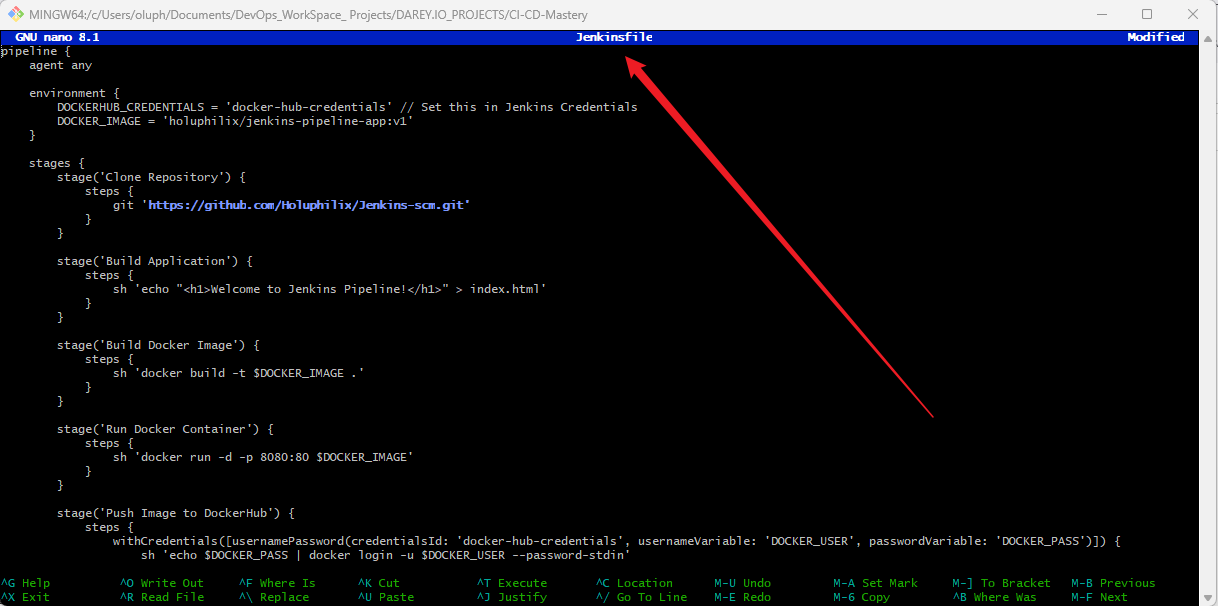
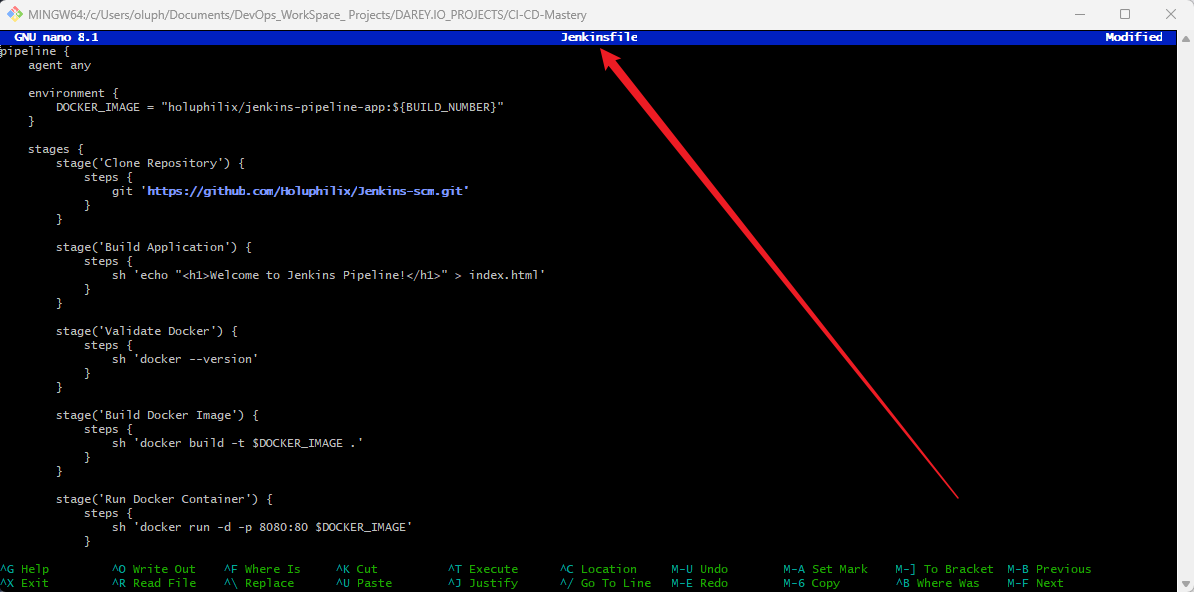
Updated Readme.md for Docker image creation and push

diff --git a/README.md b/README.md
@@ -282,7 +282,26 @@ pipeline {
 #### **Objective**
 Automate the creation of a Docker image for the web application and push it to Docker Hub using Jenkins.
 
-#### **Step 1: Update Jenkinsfile in GitHub Repository**
+#### **Step 1: Create a Repository on DockerHub:**
+
+1. Log in to DockerHub:
+- Visit https://hub.docker.com/ and log in to your account.
+
+2. Create a New Repository:
+- Click on Create Repository.
+
+3. Fill in the Details:
+- Repository Name: jenkins-pipeline-app
+- Visibility: Choose Public or Private (Public is free and easier to access).
+- Leave other options as default.
+
+4. Save:
+- Click Create to save the repository.
+
+**Screenshot:** Dockerhub Repository Name 
+![Dockerhub Repository Name](./Images/30.Dockerhub_repos_name.png)
+
+#### **Step 2: Update Jenkinsfile in GitHub Repository**
 Modify the `Jenkinsfile` in your repository to include Docker image creation and pushing to Docker Hub.
 
 #### **Updated Jenkinsfile Script for WebApp-Deployment-Pipeline:**
@@ -292,8 +311,7 @@ pipeline {
     agent any
 
     environment {
-        DOCKERHUB_CREDENTIALS = 'docker-hub-credentials' // Set this in Jenkins Credentials
-        DOCKER_IMAGE = 'holuphilix/jenkins-pipeline-app:v1'
+        DOCKER_IMAGE = "holuphilix/jenkins-pipeline-app:${BUILD_NUMBER}"
     }
 
     stages {
@@ -306,6 +324,12 @@ pipeline {
         stage('Build Application') {
             steps {
                 sh 'echo "<h1>Welcome to Jenkins Pipeline!</h1>" > index.html'
+            }
+        }
+
+        stage('Validate Docker') {
+            steps {
+                sh 'docker --version'
             }
         }
 
@@ -323,10 +347,7 @@ pipeline {
 
         stage('Push Image to DockerHub') {
             steps {
-                withCredentials([usernamePassword(credentialsId: 'docker-hub-credentials', usernameVariable: 'DOCKER_USER', passwordVariable: 'DOCKER_PASS')]) {
-                    sh 'echo $DOCKER_PASS | docker login -u $DOCKER_USER --password-stdin'
-                    sh 'docker push $DOCKER_IMAGE'
-                }
+                sh 'docker push $DOCKER_IMAGE'
             }
         }
     }
@@ -338,6 +359,9 @@ pipeline {
         failure {
             echo 'Pipeline failed. Check the logs.'
         }
+        always {
+            sh 'docker system prune -f'
+        }
     }
 }
 ```
@@ -345,7 +369,7 @@ pipeline {
 **Screenshot:** Jenkins Pipeline Execution
 ![Jenkins Pipeline Execution](./Images/22.Jenkinsfile_script.png)
 
-#### **Dockerfile Script for WebApp-Deployment-Pipeline:**
+#### **Step 3: Create Dockerfile Script for WebApp-Deployment-Pipeline:**
 
 ```groovy
 # Use an official Nginx image as the base image
@@ -361,7 +385,7 @@ EXPOSE 80
 **Screenshot:** Dockerfile Execution
 ![Dockerfile Execution](./Images/23.Dockerfile_Script.png)
 
-#### **.gitignore Script for WebApp-Deployment-Pipeline:**
+#### **Step 4: Create .gitignore Script for WebApp-Deployment-Pipeline:**
 
 ```groovy
 # Ignore temporary files
@@ -387,7 +411,7 @@ venv/
 
 ```bash
 git add .
-git commit -m "Updated Jenkinsfile for Docker image creation and push"
+git commit -m "Updated Readme.md for Docker image creation and push"
 git push origin main
 ```
 
